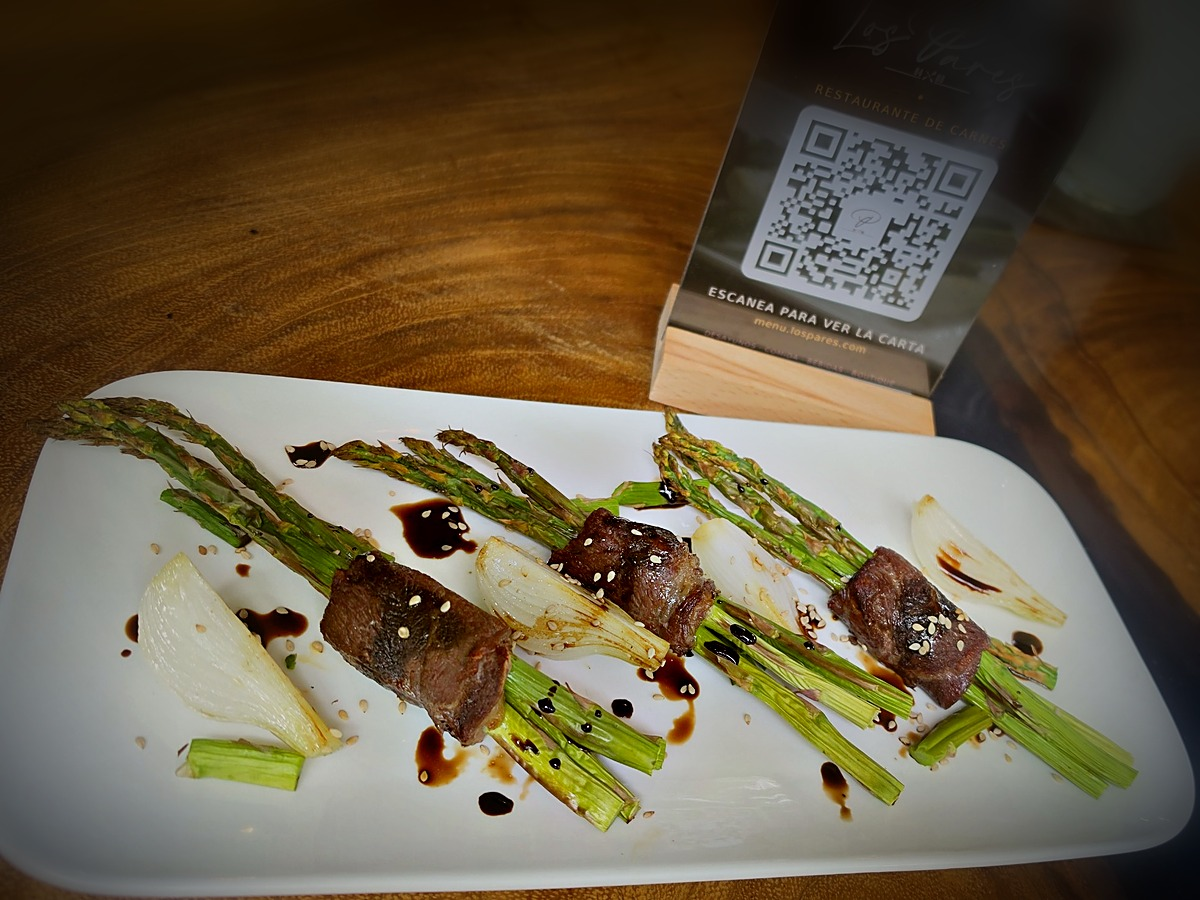
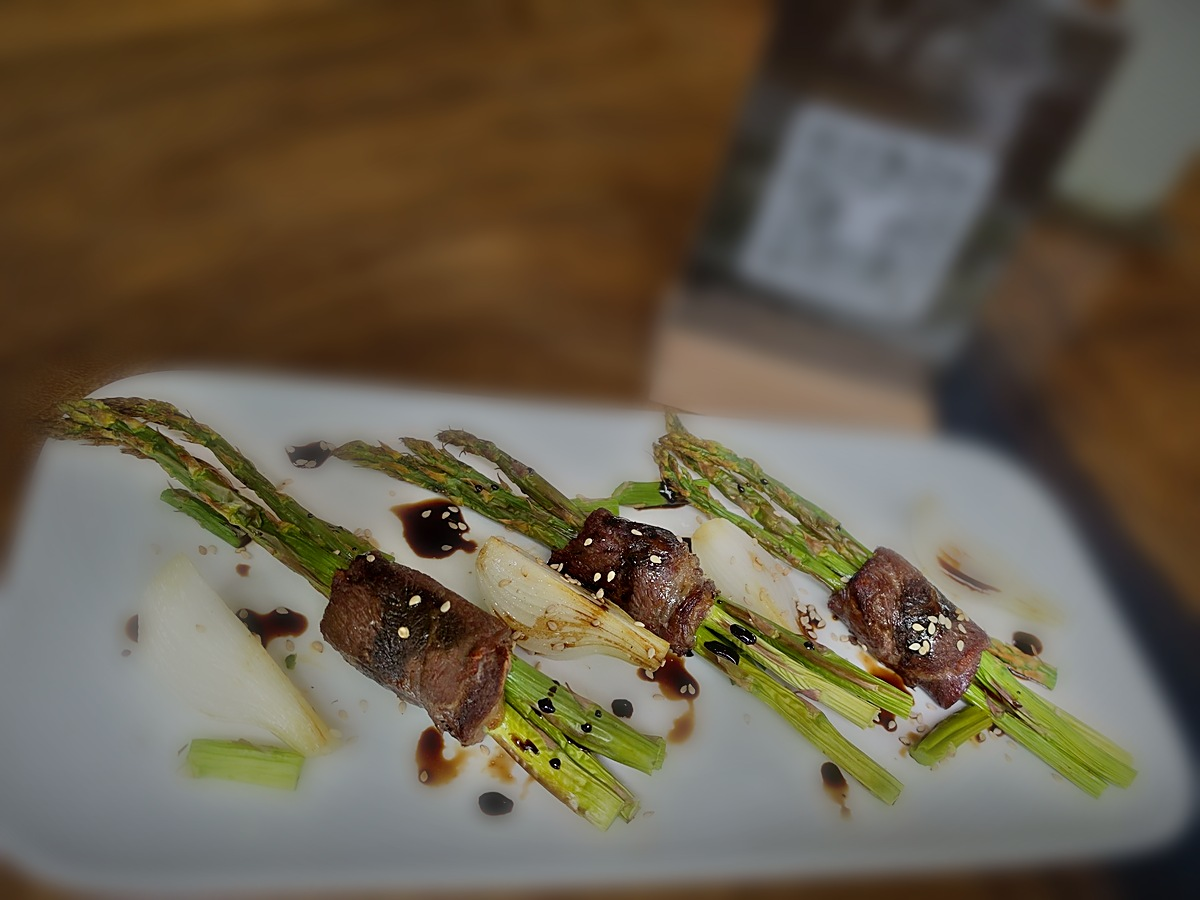
Esparragos: version con mascara del platillo, elegida por Arturo
Fondo desenfocado y apagado siguiendo el contorno real del plato, en
lugar de la mascara circular. Hecho con segmentacion local (rembg).

Claude-Session: https://claude.ai/code/session_01267DXcQMBVnpnCevQeSi3R

diff --git a/index.html b/index.html
@@ -549,7 +549,7 @@ body.sin-scroll{overflow:hidden}
 
 /* Sube este número cada vez que reemplaces una foto. Obliga a los
    navegadores a pedirla de nuevo en vez de usar la que tenían guardada. */
-const VER = "58";
+const VER = "59";
 
 const CONFIG = {
   // Deja "" en lo que todavía no tengas: el botón simplemente no aparece.
